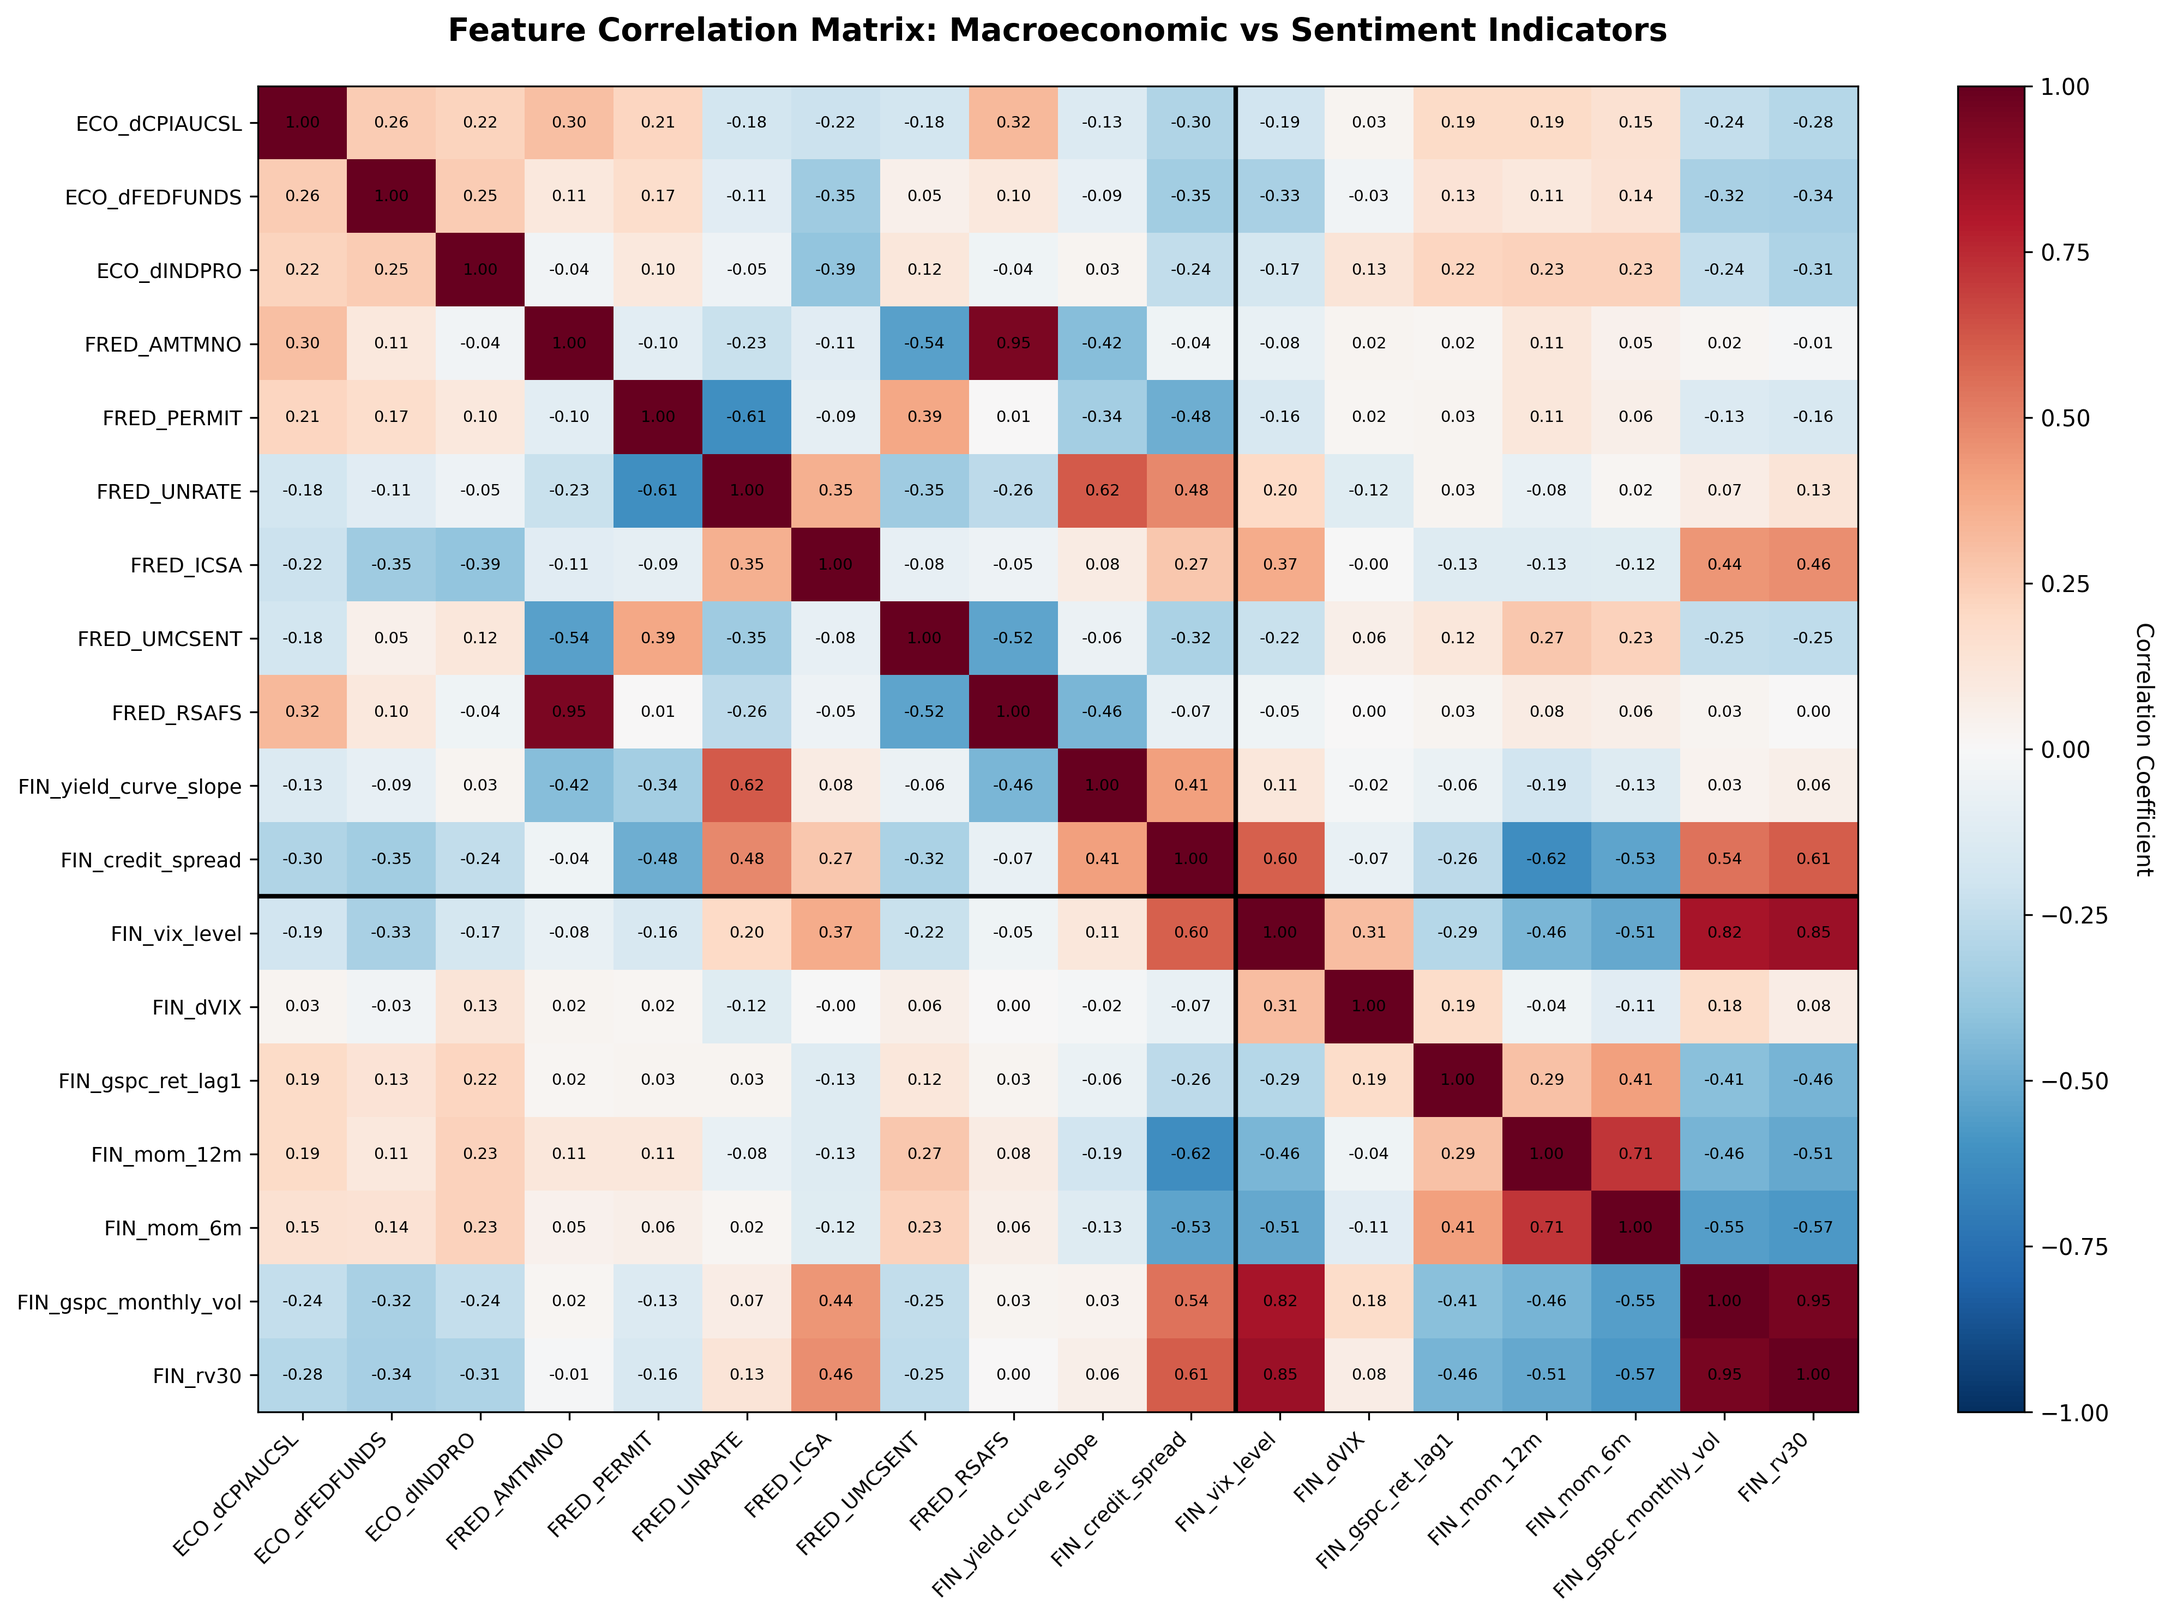
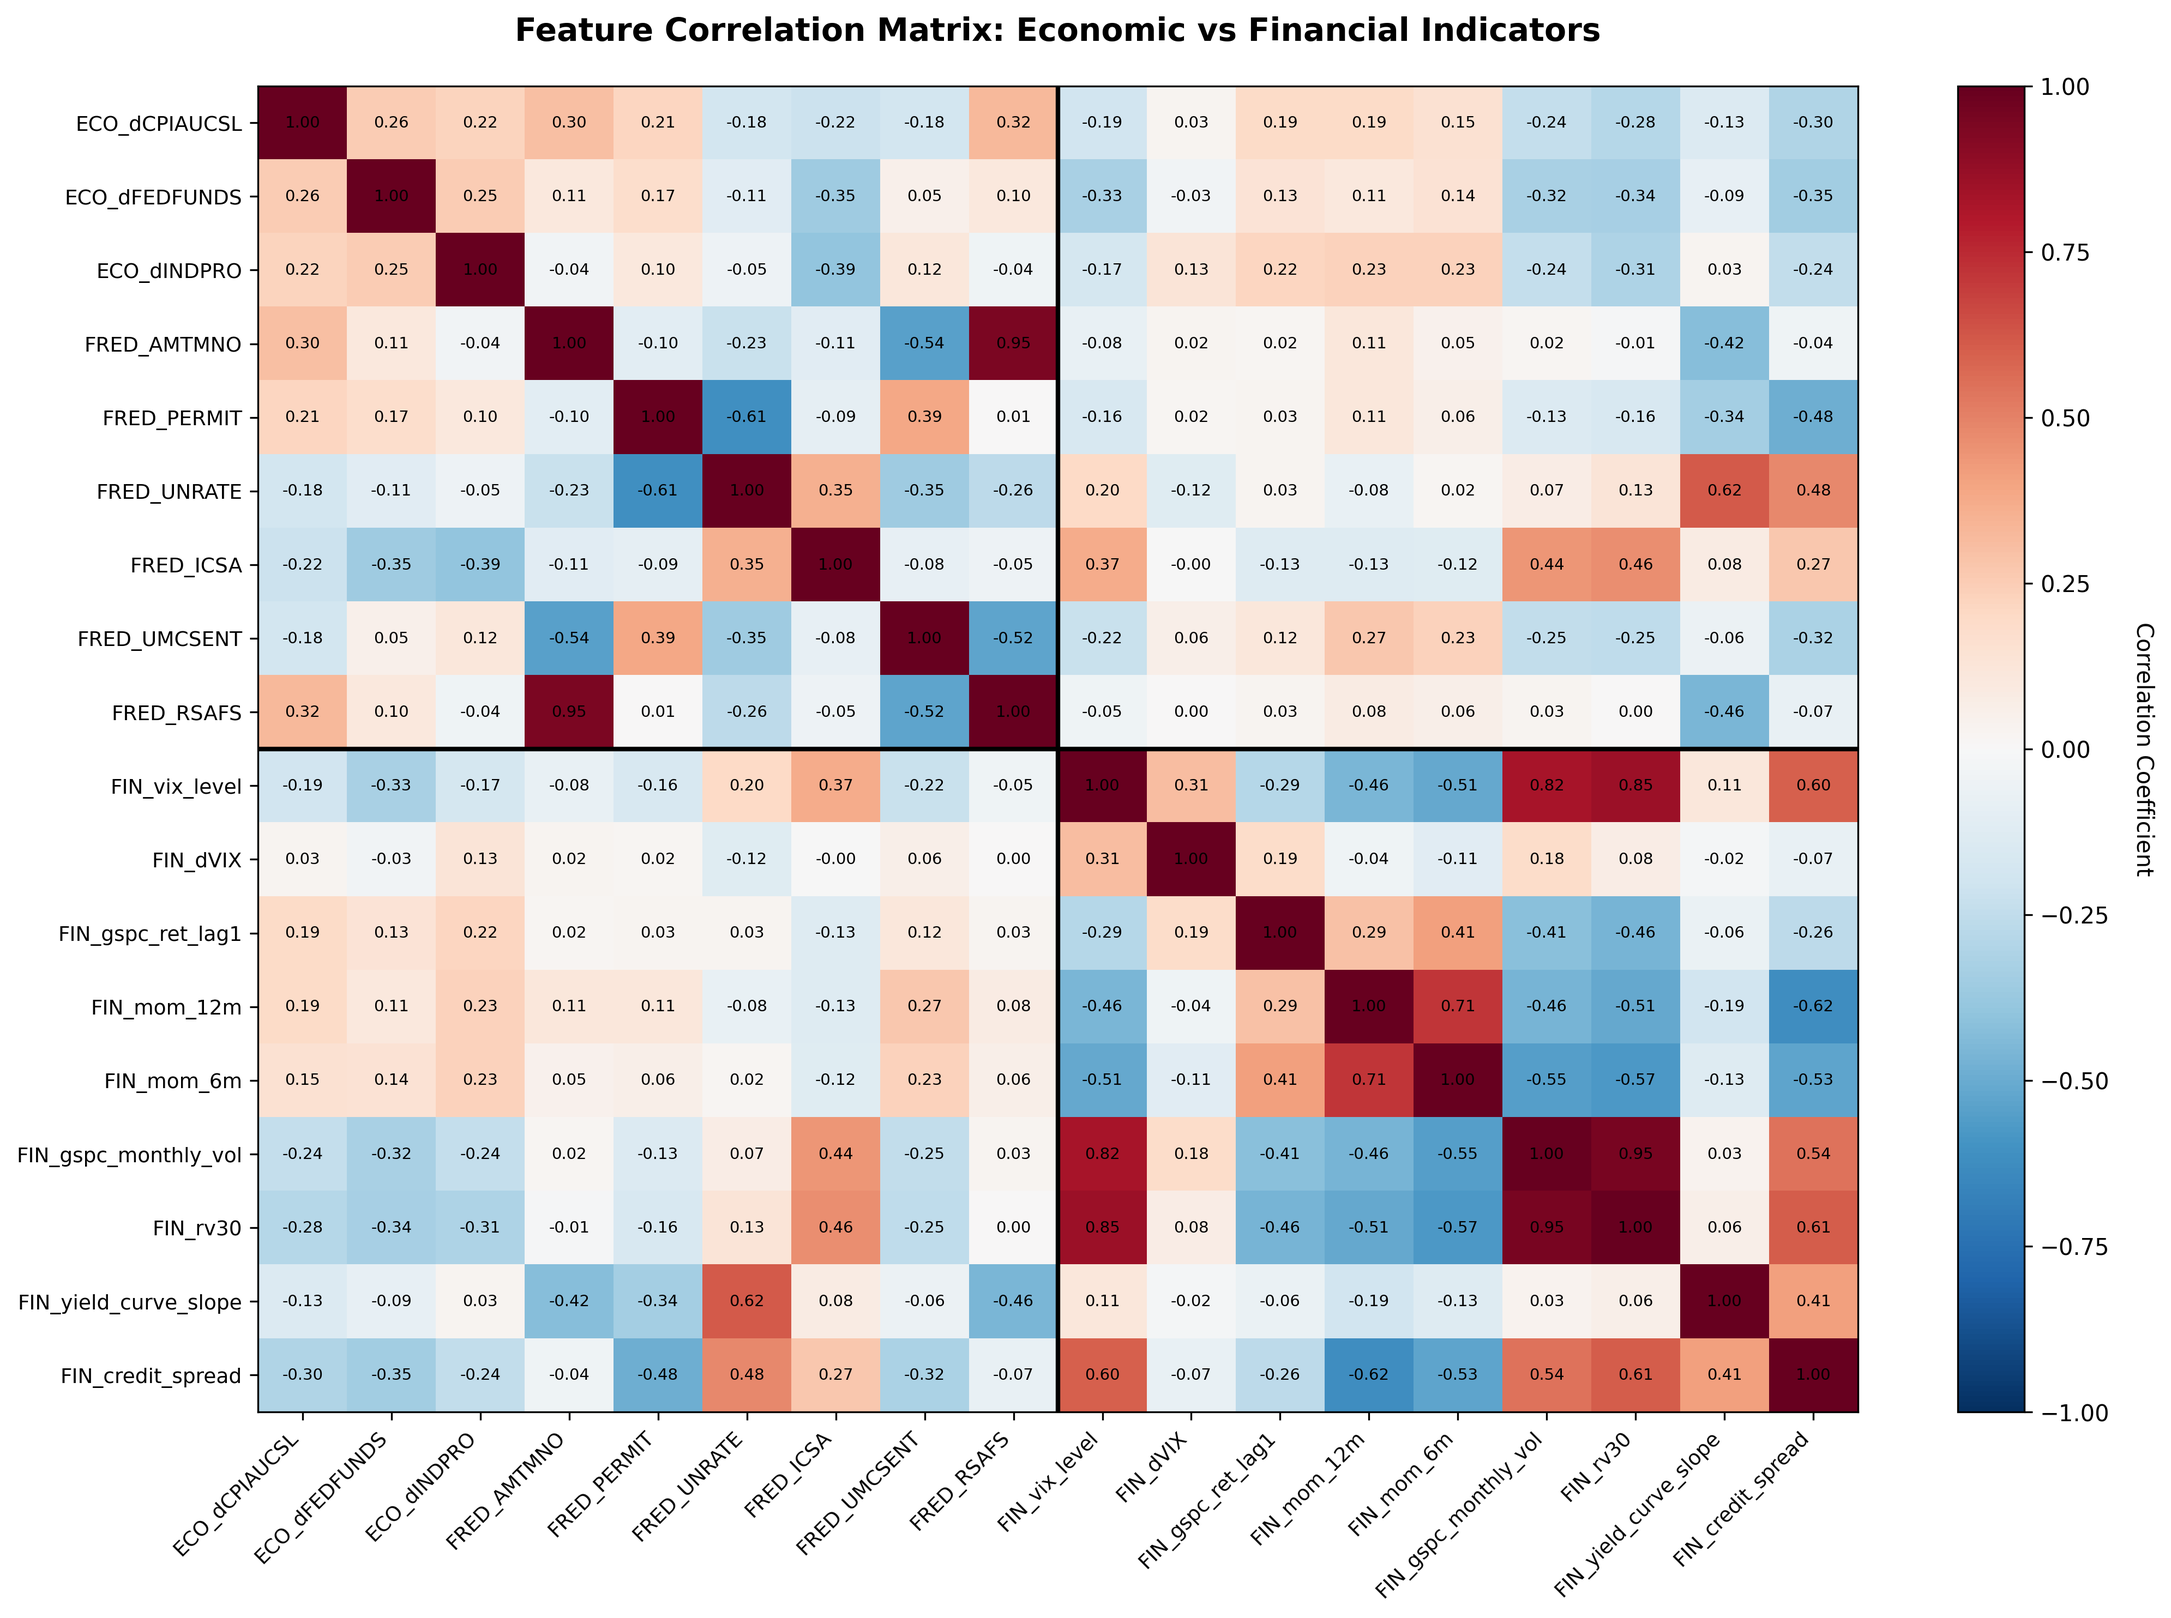
updated macroeconomic -> economic; sentiment -> financial

diff --git a/src/utils/charting.py b/src/utils/charting.py
@@ -1,6 +1,6 @@
 """
-Visualization utilities for macro vs sentiment indicators analysis.
-Creates publication-quality charts for macroeconomic and sentiment-based features.
+Visualization utilities for economic vs financial indicators analysis.
+Creates publication-quality charts for economic and financial features.
 """
 
 import matplotlib.pyplot as plt
@@ -12,7 +12,7 @@ from typing import List, Optional, Tuple
 
 
 # Feature groupings
-MACRO_FEATURES = [
+ECO_FEATURES = [
     "ECO_dCPIAUCSL",
     "ECO_dFEDFUNDS",
     "ECO_dINDPRO",
@@ -22,11 +22,9 @@ MACRO_FEATURES = [
     "FRED_ICSA",
     "FRED_UMCSENT",
     "FRED_RSAFS",
-    "FIN_yield_curve_slope",
-    "FIN_credit_spread",
 ]
 
-SENTIMENT_FEATURES = [
+FINANCIAL_FEATURES = [
     "FIN_vix_level",
     "FIN_dVIX",
     "FIN_gspc_ret_lag1",
@@ -34,6 +32,8 @@ SENTIMENT_FEATURES = [
     "FIN_mom_6m",
     "FIN_gspc_monthly_vol",
     "FIN_rv30",
+    "FIN_yield_curve_slope",
+    "FIN_credit_spread",
 ]
 
 
@@ -48,7 +48,7 @@ def normalize_series(series: pd.Series) -> pd.Series:
     return (series - series.mean()) / series.std()
 
 
-def plot_macro_features(df: pd.DataFrame, output_dir: Optional[Path] = None) -> None:
+def plot_eco_features(df: pd.DataFrame, output_dir: Optional[Path] = None) -> None:
     """
     Create a multi-panel visualization of macroeconomic indicators.
     
@@ -60,7 +60,7 @@ def plot_macro_features(df: pd.DataFrame, output_dir: Optional[Path] = None) -> 
         Directory to save figures. If None, displays interactively.
     """
     # Filter to available macro features
-    available_macro = [f for f in MACRO_FEATURES if f in df.columns]
+    available_macro = [f for f in ECO_FEATURES if f in df.columns]
     
     if not available_macro:
         print("No macroeconomic features found in data.")
@@ -96,18 +96,18 @@ def plot_macro_features(df: pd.DataFrame, output_dir: Optional[Path] = None) -> 
     
     if output_dir:
         output_dir.mkdir(parents=True, exist_ok=True)
-        filepath = output_dir / "macro_indicators.png"
+        filepath = output_dir / "eco_indicators.png"
         plt.savefig(filepath, dpi=300, bbox_inches='tight')
-        print(f"Saved macro indicators chart to {filepath}")
+        print(f"Saved economic indicators chart to {filepath}")
     else:
         plt.show()
     
     plt.close()
 
 
-def plot_sentiment_features(df: pd.DataFrame, output_dir: Optional[Path] = None) -> None:
+def plot_financial_features(df: pd.DataFrame, output_dir: Optional[Path] = None) -> None:
     """
-    Create a multi-panel visualization of sentiment-based indicators.
+    Create a multi-panel visualization of financial indicators.
     
     Parameters:
     -----------
@@ -116,26 +116,26 @@ def plot_sentiment_features(df: pd.DataFrame, output_dir: Optional[Path] = None)
     output_dir : Path, optional
         Directory to save figures. If None, displays interactively.
     """
-    # Filter to available sentiment features
-    available_sentiment = [f for f in SENTIMENT_FEATURES if f in df.columns]
+    # Filter to available financial features
+    available_financial = [f for f in FINANCIAL_FEATURES if f in df.columns]
     
-    if not available_sentiment:
-        print("No sentiment features found in data.")
+    if not available_financial:
+        print("No financial features found in data.")
         return
     
     # Create 2x4 subplots
-    n_features = len(available_sentiment)
+    n_features = len(available_financial)
     n_cols = 4
     n_rows = (n_features + n_cols - 1) // n_cols
     
     fig, axes = plt.subplots(n_rows, n_cols, figsize=(18, 4 * n_rows))
     axes = axes.flatten()
     
-    for idx, feature in enumerate(available_sentiment):
+    for idx, feature in enumerate(available_financial):
         ax = axes[idx]
         data = df[feature].dropna()
         
-        # Use different color for sentiment
+        # Use different color for financial indicators
         ax.plot(data.index, data.values, linewidth=1.5, color='darkred')
         ax.fill_between(data.index, data.values, alpha=0.3, color='darkred')
         ax.set_title(feature, fontsize=12, fontweight='bold')
@@ -147,16 +147,16 @@ def plot_sentiment_features(df: pd.DataFrame, output_dir: Optional[Path] = None)
         plt.setp(ax.xaxis.get_majorticklabels(), rotation=45)
     
     # Hide unused subplots
-    for idx in range(len(available_sentiment), len(axes)):
+    for idx in range(len(available_financial), len(axes)):
         axes[idx].set_visible(False)
     
     plt.tight_layout()
     
     if output_dir:
         output_dir.mkdir(parents=True, exist_ok=True)
-        filepath = output_dir / "sentiment_indicators.png"
+        filepath = output_dir / "financial_indicators.png"
         plt.savefig(filepath, dpi=300, bbox_inches='tight')
-        print(f"Saved sentiment indicators chart to {filepath}")
+        print(f"Saved financial indicators chart to {filepath}")
     else:
         plt.show()
     
@@ -165,7 +165,7 @@ def plot_sentiment_features(df: pd.DataFrame, output_dir: Optional[Path] = None)
 
 def plot_normalized_comparison(df: pd.DataFrame, output_dir: Optional[Path] = None) -> None:
     """
-    Plot normalized macroeconomic vs sentiment indicators on same scale for comparison.
+    Plot normalized macroeconomic vs financial indicators on same scale for comparison.
     
     Parameters:
     -----------
@@ -174,11 +174,11 @@ def plot_normalized_comparison(df: pd.DataFrame, output_dir: Optional[Path] = No
     output_dir : Path, optional
         Directory to save figures. If None, displays interactively.
     """
-    available_macro = [f for f in MACRO_FEATURES if f in df.columns]
-    available_sentiment = [f for f in SENTIMENT_FEATURES if f in df.columns]
+    available_macro = [f for f in ECO_FEATURES if f in df.columns]
+    available_financial = [f for f in FINANCIAL_FEATURES if f in df.columns]
     
-    if not available_macro or not available_sentiment:
-        print("Need both macro and sentiment features for comparison.")
+    if not available_macro or not available_financial:
+        print("Need both macro and financial features for comparison.")
         return
     
     fig, (ax1, ax2) = plt.subplots(2, 1, figsize=(14, 10))
@@ -188,18 +188,18 @@ def plot_normalized_comparison(df: pd.DataFrame, output_dir: Optional[Path] = No
         normalized = normalize_series(df[feature])
         ax1.plot(normalized.index, normalized.values, label=feature, linewidth=1, alpha=0.7)
     
-    ax1.set_title('Normalized Macroeconomic Indicators (Lagging)', fontsize=14, fontweight='bold')
+    ax1.set_title('Normalized Economic Indicators', fontsize=14, fontweight='bold')
     ax1.set_ylabel('Normalized Value (Z-score)')
     ax1.legend(loc='upper left', fontsize=8, ncol=2)
     ax1.grid(True, alpha=0.3)
     ax1.axhline(0, color='black', linestyle='--', linewidth=0.8, alpha=0.5)
-    
-    # Normalize and plot sentiment
-    for feature in available_sentiment:
+
+    # Normalize and plot financial indicators
+    for feature in available_financial:
         normalized = normalize_series(df[feature])
         ax2.plot(normalized.index, normalized.values, label=feature, linewidth=1, alpha=0.7)
-    
-    ax2.set_title('Normalized Sentiment-Based Indicators (Leading)', fontsize=14, fontweight='bold')
+
+    ax2.set_title('Normalized Financial Indicators', fontsize=14, fontweight='bold')
     ax2.set_xlabel('Date')
     ax2.set_ylabel('Normalized Value (Z-score)')
     ax2.legend(loc='upper left', fontsize=8, ncol=2)
@@ -227,7 +227,7 @@ def plot_normalized_comparison(df: pd.DataFrame, output_dir: Optional[Path] = No
 
 def plot_correlation_heatmap(df: pd.DataFrame, output_dir: Optional[Path] = None) -> None:
     """
-    Create a correlation heatmap of macro and sentiment features.
+    Create a correlation heatmap of macro and financial features.
     
     Parameters:
     -----------
@@ -236,9 +236,9 @@ def plot_correlation_heatmap(df: pd.DataFrame, output_dir: Optional[Path] = None
     output_dir : Path, optional
         Directory to save figures. If None, displays interactively.
     """
-    available_macro = [f for f in MACRO_FEATURES if f in df.columns]
-    available_sentiment = [f for f in SENTIMENT_FEATURES if f in df.columns]
-    all_features = available_macro + available_sentiment
+    available_macro = [f for f in ECO_FEATURES if f in df.columns]
+    available_financial = [f for f in FINANCIAL_FEATURES if f in df.columns]
+    all_features = available_macro + available_financial
     
     if len(all_features) < 2:
         print("Insufficient features for correlation analysis.")
@@ -268,11 +268,11 @@ def plot_correlation_heatmap(df: pd.DataFrame, output_dir: Optional[Path] = None
             text = ax.text(j, i, f'{corr_matrix.iloc[i, j]:.2f}',
                           ha="center", va="center", color="black", fontsize=7)
     
-    # Add visual separation between macro and sentiment
+    # Add visual separation between macro and financial features
     ax.axhline(len(available_macro) - 0.5, color='black', linewidth=2)
     ax.axvline(len(available_macro) - 0.5, color='black', linewidth=2)
     
-    ax.set_title('Feature Correlation Matrix: Macroeconomic vs Sentiment Indicators', 
+    ax.set_title('Feature Correlation Matrix: Economic vs Financial Indicators', 
                 fontsize=14, fontweight='bold', pad=20)
     
     plt.tight_layout()
@@ -299,17 +299,17 @@ def plot_summary_statistics(df: pd.DataFrame, output_dir: Optional[Path] = None)
     output_dir : Path, optional
         Directory to save figures. If None, displays interactively.
     """
-    available_macro = [f for f in MACRO_FEATURES if f in df.columns]
-    available_sentiment = [f for f in SENTIMENT_FEATURES if f in df.columns]
+    available_macro = [f for f in ECO_FEATURES if f in df.columns]
+    available_financial = [f for f in FINANCIAL_FEATURES if f in df.columns]
     
     fig, axes = plt.subplots(2, 2, figsize=(14, 10))
     
     # Mean values
     ax = axes[0, 0]
     means_macro = df[available_macro].mean()
-    means_sentiment = df[available_sentiment].mean()
-    all_means = pd.concat([means_macro, means_sentiment])
-    colors = ['steelblue'] * len(available_macro) + ['darkred'] * len(available_sentiment)
+    means_financial = df[available_financial].mean()
+    all_means = pd.concat([means_macro, means_financial])
+    colors = ['steelblue'] * len(available_macro) + ['darkred'] * len(available_financial)
     all_means.plot(kind='barh', ax=ax, color=colors)
     ax.set_title('Mean Values', fontweight='bold')
     ax.set_xlabel('Mean')
@@ -317,8 +317,8 @@ def plot_summary_statistics(df: pd.DataFrame, output_dir: Optional[Path] = None)
     # Standard deviation
     ax = axes[0, 1]
     std_macro = df[available_macro].std()
-    std_sentiment = df[available_sentiment].std()
-    all_std = pd.concat([std_macro, std_sentiment])
+    std_financial = df[available_financial].std()
+    all_std = pd.concat([std_macro, std_financial])
     all_std.plot(kind='barh', ax=ax, color=colors)
     ax.set_title('Standard Deviation', fontweight='bold')
     ax.set_xlabel('Std Dev')
@@ -326,8 +326,8 @@ def plot_summary_statistics(df: pd.DataFrame, output_dir: Optional[Path] = None)
     # Count of non-null values
     ax = axes[1, 0]
     counts_macro = df[available_macro].notna().sum()
-    counts_sentiment = df[available_sentiment].notna().sum()
-    all_counts = pd.concat([counts_macro, counts_sentiment])
+    counts_financial = df[available_financial].notna().sum()
+    all_counts = pd.concat([counts_macro, counts_financial])
     all_counts.plot(kind='barh', ax=ax, color=colors)
     ax.set_title('Non-Null Observations', fontweight='bold')
     ax.set_xlabel('Count')
@@ -335,9 +335,9 @@ def plot_summary_statistics(df: pd.DataFrame, output_dir: Optional[Path] = None)
     # Data availability over time
     ax = axes[1, 1]
     availability_macro = df[available_macro].notna().sum(axis=1)
-    availability_sentiment = df[available_sentiment].notna().sum(axis=1)
+    availability_financial = df[available_financial].notna().sum(axis=1)
     ax.plot(availability_macro.index, availability_macro.values, label='Macro Features', linewidth=2, color='steelblue')
-    ax.plot(availability_sentiment.index, availability_sentiment.values, label='Sentiment Features', linewidth=2, color='darkred')
+    ax.plot(availability_financial.index, availability_financial.values, label='Financial Features', linewidth=2, color='darkred')
     ax.set_title('Feature Availability Over Time', fontweight='bold')
     ax.set_xlabel('Date')
     ax.set_ylabel('Number of Non-Null Features')
@@ -379,8 +379,8 @@ def generate_all_visualizations(data_path: Path, output_dir: Optional[Path] = No
     print()
     
     print("Generating visualizations...")
-    plot_macro_features(df, output_dir)
-    plot_sentiment_features(df, output_dir)
+    plot_eco_features(df, output_dir)
+    plot_financial_features(df, output_dir)
     plot_normalized_comparison(df, output_dir)
     plot_correlation_heatmap(df, output_dir)
     plot_summary_statistics(df, output_dir)
